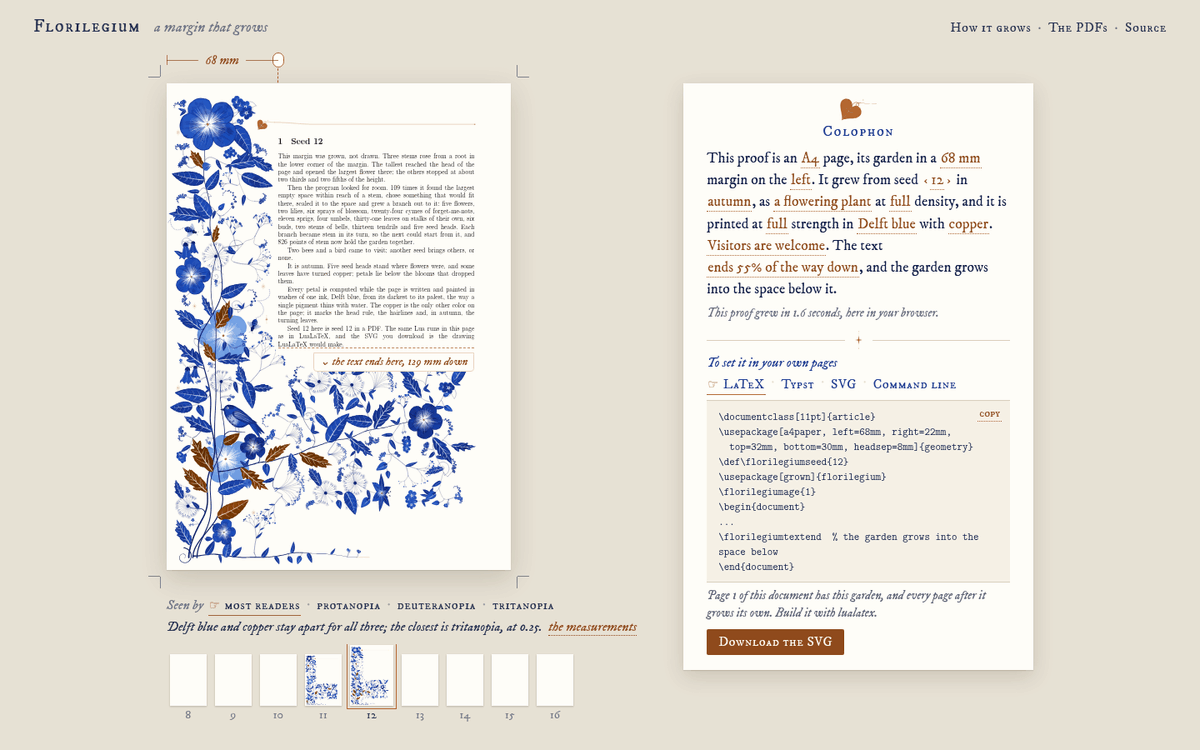
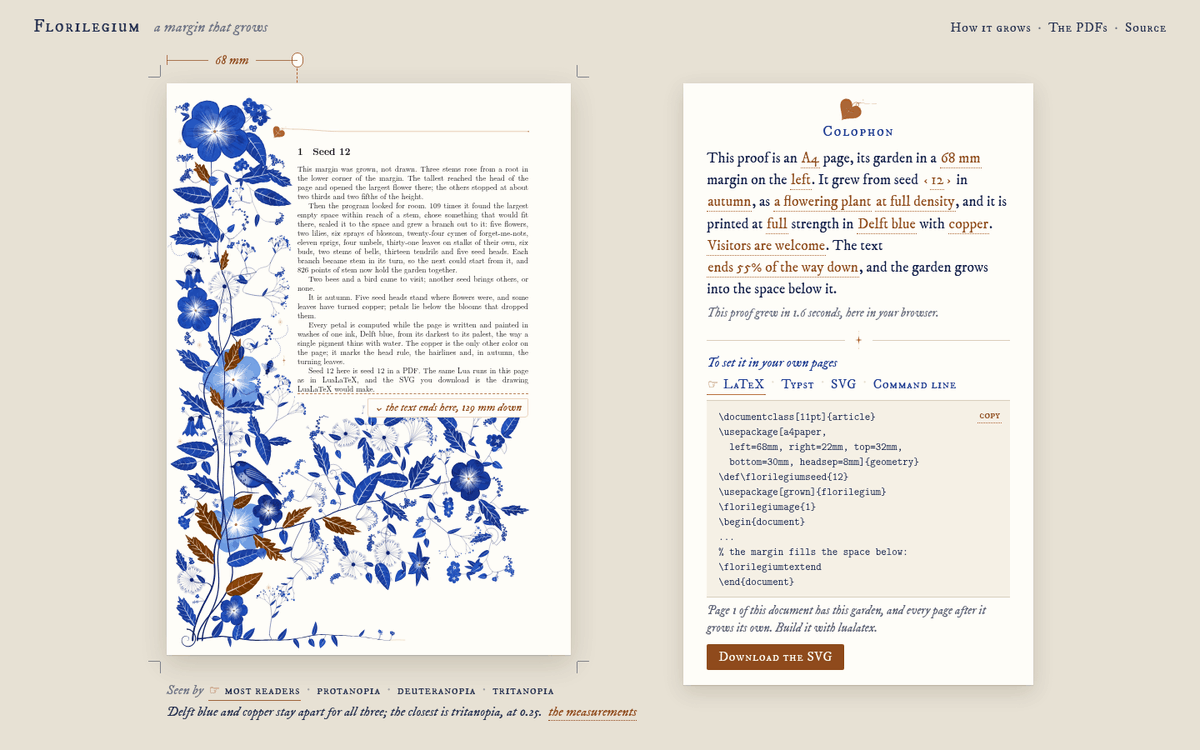
Drop the strip of neighboring seeds from the playground
The strip grew eight more gardens for every visitor, in a second Lua
worker, and at that size they were too small to see. Seeds are still a
click away with the arrows around the seed in the colophon, or typed, or
chosen at random. The proof takes the room the strip had and is about
100 px taller.

diff --git a/web/index.html b/web/index.html
@@ -49,7 +49,7 @@
   .table { display: grid; grid-template-columns: auto minmax(330px, 420px); gap: 56px; justify-content: center; align-items: start; padding: 48px 40px 0; }
 
   /* the proof: a sheet with its crop marks, its margin measured above it */
-  .sheet { position: relative; height: max(400px, calc(100dvh - 316px)); aspect-ratio: var(--ar, 0.70707); }
+  .sheet { position: relative; height: max(420px, calc(100dvh - 214px)); aspect-ratio: var(--ar, 0.70707); }
   .proof { position: absolute; inset: 0; margin: 0; background: var(--paper); container-type: inline-size;
     box-shadow: 0 1px 1px rgba(40, 30, 10, .12), 0 10px 30px rgba(40, 30, 10, .16); }
   .proof .garden { position: absolute; inset: 0; width: 100%; height: 100%; transition: opacity .3s; }
@@ -90,7 +90,7 @@
   .foot span { position: absolute; right: 0; top: 13px; font-family: var(--fell); font-style: italic; font-size: 13.5px; color: var(--copper-700);
     background: var(--paper); padding: 1px 7px 2px; border: 1px solid var(--copper-200); border-radius: 0 0 4px 4px; white-space: nowrap; }
 
-  /* under the proof: how it reads to others, and the seeds on either side */
+  /* under the proof: how it reads to others */
   .below { margin-top: 30px; display: grid; gap: 10px; }
   .seenby { font-size: 16px; color: var(--table-faint); }
   .seenby > em { margin-right: 6px; }
@@ -101,12 +101,6 @@
   .sep { margin: 0 7px; opacity: .6; }
   .verdict { display: block; font-style: italic; margin-top: 3px; min-height: 1.3em; color: var(--table-ink); }
   .verdict button { font-style: italic; color: var(--mark); border-bottom: 1px dotted currentColor; margin-left: 4px; }
-  .seeds { display: flex; gap: 10px; align-items: flex-end; overflow-x: auto; padding: 4px 4px 2px; height: 96px; }
-  .seeds button { display: grid; justify-items: center; gap: 2px; color: var(--table-faint); font-size: 14px; flex: none; }
-  .seeds .thumb { width: 44px; height: 62px; background: var(--paper); box-shadow: 0 1px 2px rgba(40, 30, 10, .25); transition: transform .15s; display: block; object-fit: contain; }
-  .seeds button:hover .thumb { transform: translateY(-3px); }
-  .seeds button[aria-current=true] { color: var(--table-ink); }
-  .seeds button[aria-current=true] .thumb { width: 52px; height: 73px; outline: 1.5px solid var(--copper-500); outline-offset: 3px; }
 
   /* the colophon: a slip of the same paper, its copper words the controls */
   .slip { background: var(--paper); color: var(--ink-900); padding: 26px 32px 24px; box-shadow: 0 1px 1px rgba(40, 30, 10, .12), 0 8px 24px rgba(40, 30, 10, .14); }
@@ -220,7 +214,6 @@
         <em>Seen by</em><span id="seenby"></span>
         <span class="verdict" id="verdict"></span>
       </div>
-      <nav class="seeds" id="seeds" aria-label="Neighboring seeds"></nav>
     </div>
   </section>
 

diff --git a/web/app.js b/web/app.js
@@ -584,7 +584,6 @@ async function show(m) {
   $('#download').disabled = false
   const took = m.ms < 950 ? `${Math.max(10, Math.round(m.ms / 10) * 10)} milliseconds` : `${(m.ms / 1000).toFixed(1)} seconds`
   status(`This proof grew in ${took}, here in your browser.`)
-  thumbs()
 }
 
 $('#download').onclick = () => {
@@ -601,47 +600,7 @@ $('#copy').onclick = async (e) => {
   setTimeout(() => { e.target.textContent = 'copy' }, 1200)
 }
 
-// ---------------------------------------------------------------- the seeds on either side
-// a second worker grows the neighbors, nearest first, once the proof itself is done
-const thumber = new Worker('worker.js')
-const shelf = new Map()                       // options for a seed -> object URL of its SVG
-let thumbGen = 0, thumbBusy = false
-thumber.onmessage = (e) => {
-  const m = e.data
-  if (m.ready || m.id === undefined) return
-  thumbBusy = false
-  const i = m.id.indexOf('#'), gen = +m.id.slice(0, i), key = m.id.slice(i + 1)
-  if (gen === thumbGen && !m.error) { shelf.set(key, URL.createObjectURL(new Blob([m.svg], { type: 'image/svg+xml' }))); drawSeeds() }
-  nextThumb()
-}
-const nine = () => { const lo = Math.max(1, state.seed - 4); return Array.from({ length: 9 }, (_, i) => lo + i) }
-const thumbKey = (n) => JSON.stringify({ ...options(n), head: true })
-function thumbs() {
-  thumbGen++
-  const keep = new Set(nine().map(thumbKey))
-  for (const [k, url] of shelf) if (!keep.has(k)) { URL.revokeObjectURL(url); shelf.delete(k) }
-  if (current && !shelf.has(thumbKey(state.seed))) shelf.set(thumbKey(state.seed), URL.createObjectURL(new Blob([current.svg], { type: 'image/svg+xml' })))
-  drawSeeds()
-  setTimeout(nextThumb, 300)
-}
-function nextThumb() {
-  if (thumbBusy) return
-  const n = nine().filter((n) => !shelf.has(thumbKey(n))).sort((a, b) => Math.abs(a - state.seed) - Math.abs(b - state.seed))[0]
-  if (n === undefined) return
-  thumbBusy = true
-  thumber.postMessage({ id: `${thumbGen}#${thumbKey(n)}`, options: { ...options(n), head: true } })
-}
-function drawSeeds() {
-  $('#seeds').innerHTML = nine().map((n) => {
-    const url = shelf.get(thumbKey(n))
-    return `<button data-seed="${n}" aria-current="${n === state.seed}" aria-label="Seed ${n}">` +
-      (url ? `<img class="thumb" src="${url}" alt="">` : '<span class="thumb"></span>') + `<span>${n}</span></button>`
-  }).join('')
-  for (const b of document.querySelectorAll('[data-seed]')) b.onclick = () => set('seed', +b.dataset.seed, true)
-}
-
 window.addEventListener('hashchange', () => { readHash(); forget(); pageText(current); render() })
 readHash()
 pageText(null)
-drawSeeds()
 render()

diff --git a/CLAUDE.md b/CLAUDE.md
@@ -32,7 +32,7 @@ published to GitHub Pages.
 | `authored.lua` | authored composition: the hand-placed "score" (STEMS, LEAVES, BRANCHES, GHOSTS, VISITORS, SNAIL, ACCENTS, FOOT) for A4 with a 68 mm left margin. |
 | `initial.lua` | decorated initials: glyph outline via `fonts.handlers.otf.readers.loadshapes`, even-odd inside test, clearance grid, the vine over/under the letter, leaflets, flowers in the gaps, tile frame. |
 | `svg.lua` | a page as SVG without TeX (any Lua 5.3/5.4): `M.page(o)` stubs `tex` (`dimen`, `count`, `hoffset`), `node`, `luatexbase`, `texio` around `florilegium.grown`/`authored` and restores them, so `florilegium.geometry()` itself lays the page out; `M.sp` scans a length as TeX does, `html` converts a color as xcolor does (`\rdivide`, then `print_scaled`); `M.translate` turns ink's PDF operators into SVG (clip groups, opacity, multiply). Returns `svg, g, { streams, captions, stats }` (captions: the math theme's TeX, placed and mirrored as `florilegium.lua`'s `captions()` places it, from `florilegium.last_captions`; stats: what grew, from `florilegium.last_stats`, which `grow.page` returns as `{ stats = { motifs, counts, stems, cells } }`). CLI: `texlua svg.lua --help`. |
-| `web/`, `.github/workflows/pages.yml` | the playground, "a proof and its colophon": `index.html` (the proof sheet with crop marks and the measured margin, the colophon slip, styles), `app.js` (state in the URL hash; the colophon sentence built from the state, each copper word a chooser, and the garden's alt text; the knob on the measure and the foot of the text as drag/arrow-key controls; page text written from `stats`; "seen by" filters and the measurements table, Machado 2009 + Oklab, `WEAK` 0.10; snippets; a second worker for the neighbor thumbnails), `worker.js` (wasmoon 1.16.0 from jsDelivr, mounts `MODULES`, calls `svg.page`, `setTop(0)` after each call), `captions.js` (MathJax 3.2.2 `tex2svg` with `fontCache: 'none'`, set at TikZ's anchor, size in pt, rotation, color, opacity, then spliced into the SVG), `fonts/` (WOFF2 subsets, licenses, README), `hedera.svg` and `sparkle.svg` (drawn by `tools/ornament.lua`). `pages.yml` checks `svg.lua` under `lua5.4`, then publishes `web/` + `*.lua` on pushes to main that touch them. |
+| `web/`, `.github/workflows/pages.yml` | the playground, "a proof and its colophon": `index.html` (the proof sheet with crop marks and the measured margin, the colophon slip, styles), `app.js` (state in the URL hash; the colophon sentence built from the state, each copper word a chooser, and the garden's alt text; the knob on the measure and the foot of the text as drag/arrow-key controls; page text written from `stats`; "seen by" filters and the measurements table, Machado 2009 + Oklab, `WEAK` 0.10; snippets), `worker.js` (wasmoon 1.16.0 from jsDelivr, mounts `MODULES`, calls `svg.page`, `setTop(0)` after each call), `captions.js` (MathJax 3.2.2 `tex2svg` with `fontCache: 'none'`, set at TikZ's anchor, size in pt, rotation, color, opacity, then spliced into the SVG), `fonts/` (WOFF2 subsets, licenses, README), `hedera.svg` and `sparkle.svg` (drawn by `tools/ornament.lua`). `pages.yml` checks `svg.lua` under `lua5.4`, then publishes `web/` + `*.lua` on pushes to main that touch them. |
 | `tools/playcheck/` | `check.mjs` (puppeteer-core): operates every control of the playground and checks the garden, geometry, colophon, URL and snippets (44 checks); writes one all-settings-changed page and its CLI/LaTeX snippets for a `cmp` / PDF check. |
 | `florilegium.tex` / `florilegium-grow.tex` | demo documents (authored / grown). Body text = `text-methods.tex` (+ `text-growth.tex` for grown) + `text-sharing.tex`; it describes the code, so **update it when the method changes**. |
 | `showcase.tex` | "A year in the margin": `[grown,sections,aging]`, an initial, `\florilegiumbloom`; each section describes the feature it shows. Two passes. |
